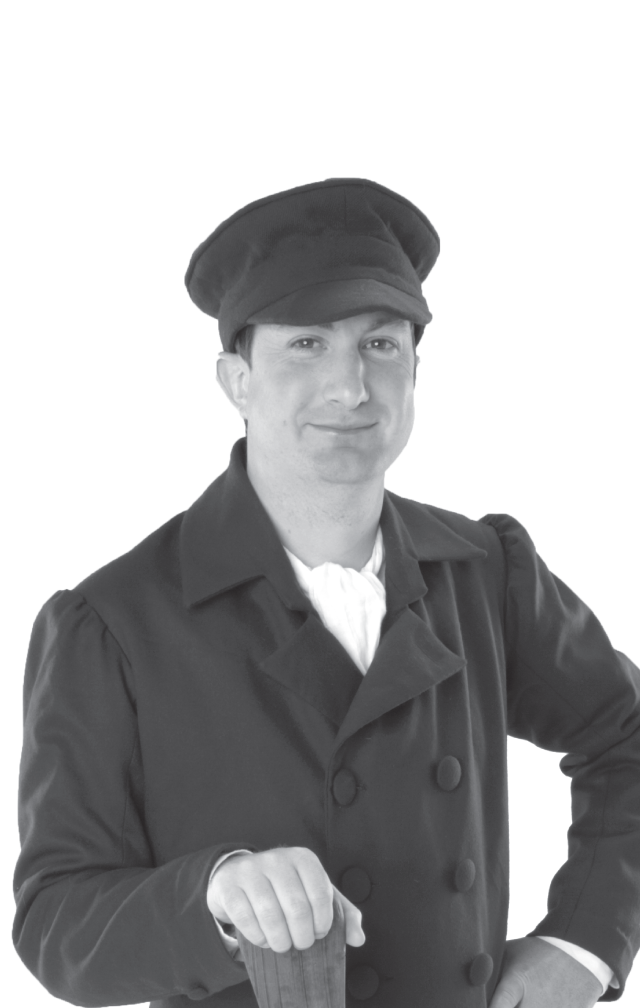
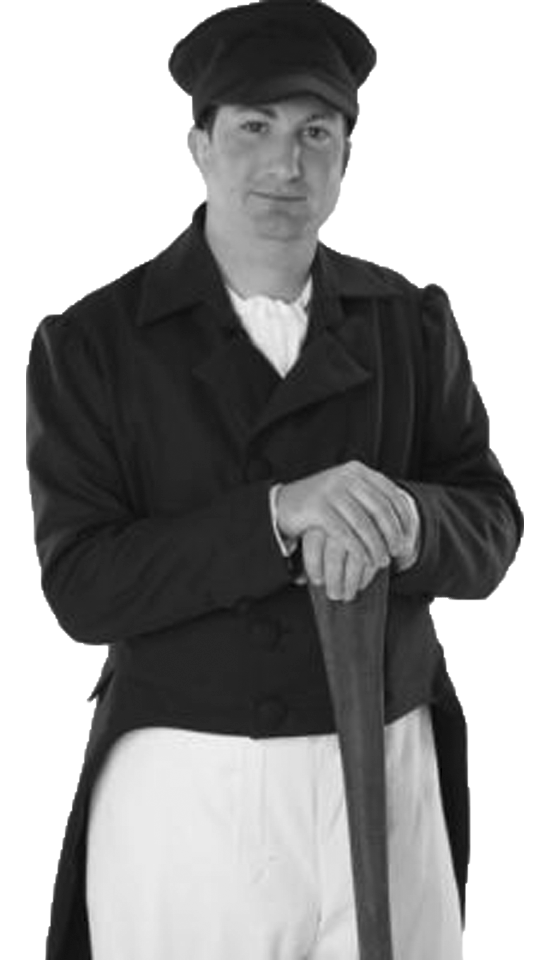
updated graphics/stylings

diff --git a/fur_trade_2013/index.html b/fur_trade_2013/index.html
@@ -81,7 +81,7 @@ window.onerror = function(msg, url, linenumber)
 <div id='clerkrole' class='role clerk_bg full_screen'>
     <div id='clerkintro' class='intro full_screen'>
         <img src='assets/clerk_prompt.png' class='introprompt' />
-        <img src='assets/john.png' class='introimage' />
+        <img id='clerkintroimage' class='introimage' src='assets/john.png' />
         <div class='introdialog'>
             Hey! Take these <b>10 Beaver Pelts</b> and find some <b>items</b> so we can stock our store! We're running low!
         </div>
@@ -91,7 +91,7 @@ window.onerror = function(msg, url, linenumber)
     </div>
     <div id='clerkget' class='get full_screen'>
         <img src='assets/pelt.png' id='clerkitemget' />
-        <img src='assets/seller.png' class='introimage' /><!-- not actually an introimage, but should use same-ish dimensions -->
+        <img id='sellerimage' src='assets/seller.png' />
         <div id='sellerdialog' class='introdialog'>
             This here item's a doozy yup sure is der.
         </div>
@@ -104,7 +104,7 @@ window.onerror = function(msg, url, linenumber)
         <div id="clerktradepool"></div>
     </div>
     <div id='clerkguru' class='guru full_screen'>
-        <img class='guruimage' src='assets/john.png' />
+        <img id='clerkguruimage' class='guruimage' src='assets/john.png' />
         <div id='clerkgurutalk' class='gurutalk'></div>
         <div id="clerkgurubutton" class='bottombutton' ontouchstart='ftv.hideGuru();'>
             <img src='assets/forward_arrow.png' class='forwardarrow' />
@@ -115,7 +115,7 @@ window.onerror = function(msg, url, linenumber)
 <div id='hunterrole' class='role hunter_bg full_screen'>
     <div id='hunterintro' class='intro full_screen'>
         <img src='assets/hunter_prompt.png' class='introprompt' />
-        <img src='assets/natam.png' class='introimage' />
+        <img id='hunterintroimage' class='introimage' src='assets/natam.png' />
         <div class='introdialog'>
             Hey! The Europeans are in town, and they're trading <b>cool stuff</b> for <b>beaver pelts</b>! Help us gather <b>10 beaver pelts</b>!
         </div>
@@ -137,7 +137,7 @@ window.onerror = function(msg, url, linenumber)
         <div id="huntertradehave">Have: 0</div>
     </div>
     <div id='hunterguru' class='guru full_screen'>
-        <img class='guruimage' src='assets/natam.png' />
+        <img id='hunterguruimage' class='guruimage' src='assets/natam.png' />
         <div id='huntergurutalk' class='gurutalk'></div>
         <div id='huntergurubutton' class='bottombutton' ontouchstart='ftv.hideGuru();'>
             <img src='assets/forward_arrow.png' class='forwardarrow' />

diff --git a/fur_trade_2013/clerkgame.js b/fur_trade_2013/clerkgame.js
@@ -66,10 +66,11 @@ var ClerkGame = function()
         cell.appendChild(img);
         cell.appendChild(title);
         cell.appendChild(qty);
-        cell.ontouchstart = function() { clerkTradeItemSelected(item); };
+        cell.ontouchstart = function() { self.clerkTradeItemSelected(item); };
 
         return cell;
     }
+
     function formatClerkTrade()
     {
         ftv.displayGuruWithMessage("Find a <b>hunter partner</b> looking to trade! Then, <b>select the item</b> you would like to trade. Once you and <b>your partner</b> have agreed on a trade, <b>smack your devices together</b> to make the trade! ");

diff --git a/fur_trade_2013/style.css b/fur_trade_2013/style.css
@@ -63,6 +63,7 @@ body
 .guru
 {
     display:none;
+    overflow:visible;
 }
 
 #hud
@@ -146,6 +147,26 @@ body
     left:50px;
 }
 
+#clerkintroimage
+{
+    width:400px;
+    left:0px;
+}
+
+#hunterintroimage
+{
+    top:-80px;
+}
+
+#sellerimage
+{
+    display:block;
+    width:320px;
+    position:absolute;
+    top:80px;
+    left:50px;
+}
+
 .introdialog
 {
     width:300px;
@@ -193,6 +214,17 @@ body
     position:absolute;
     top:50px;
     left:50px;
+}
+
+#clerkguruimage
+{
+    width:400px;
+    top:20px;
+}
+
+#hunterguruimage
+{
+    top:-80px;
 }
 
 .gurutalk
